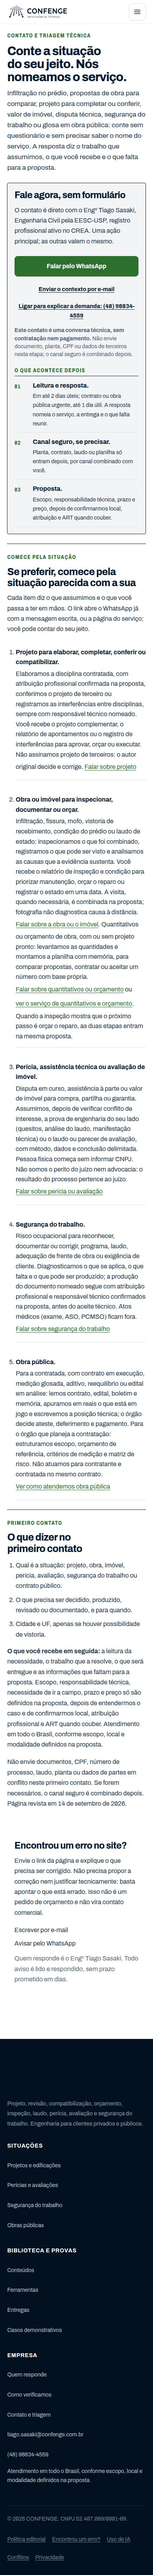
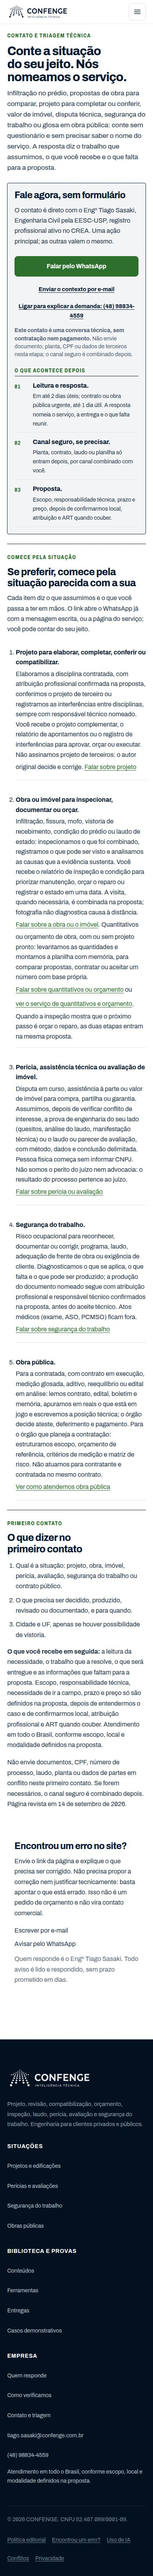
chore(design): estimativas de content-visibility da home medidas no piloto por faixa; capturas do piloto e do estudo B com imagens carregadas; comparativo regerado

diff --git a/assets/home-10x.css b/assets/home-10x.css
@@ -158,15 +158,15 @@ body[data-content-cluster="home"] .form-legal p:last-child{margin:0}
 .trust-proof-list p a{color:var(--ink);text-decoration:underline;text-underline-offset:3px;font-weight:600}
 @media (min-width:900px){body[data-content-cluster="home"] .contact-grid>.contact-form,body[data-content-cluster="home"] .contact-grid>form{grid-column:2;grid-row:1 / span 2}body[data-content-cluster="home"] .contact-grid>.form-nojs-note{grid-column:2}}
 
-/* ── 8. content-visibility: estimativas por faixa (nunca acima do real; medidas em 2026-09-16) ─ */
+/* ── 8. content-visibility: estimativas por faixa (nunca acima do real; medidas em 2026-09-17 no piloto, mínimo dos extremos de cada faixa) ─ */
 /* As duas seções finais ficam sempre renderizadas: são destino de âncora (#triagem-tecnica, #contato)
  * e mudam de altura depois da hidratação do formulário. */
 @supports (content-visibility:auto){
 html.js body[data-content-cluster="home"] main>#triagem-tecnica,html.js body[data-content-cluster="home"] main>#contato{content-visibility:visible}
-@media (max-width:359px){html.js body[data-content-cluster="home"] main>#situacoes{contain-intrinsic-size:auto 3400px}html.js body[data-content-cluster="home"] main>section[data-section-archetype="authority_editorial"]{contain-intrinsic-size:auto 1500px}html.js body[data-content-cluster="home"] main>#obras-publicas{contain-intrinsic-size:auto 1330px}html.js body[data-content-cluster="home"] main>#mercado-pncp{contain-intrinsic-size:auto 1460px}}
-@media (min-width:360px) and (max-width:389px){html.js body[data-content-cluster="home"] main>#situacoes{contain-intrinsic-size:auto 3060px}html.js body[data-content-cluster="home"] main>section[data-section-archetype="authority_editorial"]{contain-intrinsic-size:auto 1270px}html.js body[data-content-cluster="home"] main>#obras-publicas{contain-intrinsic-size:auto 1230px}html.js body[data-content-cluster="home"] main>#mercado-pncp{contain-intrinsic-size:auto 1300px}}
-@media (min-width:390px) and (max-width:429px){html.js body[data-content-cluster="home"] main>#situacoes{contain-intrinsic-size:auto 2890px}html.js body[data-content-cluster="home"] main>section[data-section-archetype="authority_editorial"]{contain-intrinsic-size:auto 1210px}html.js body[data-content-cluster="home"] main>#obras-publicas{contain-intrinsic-size:auto 1185px}html.js body[data-content-cluster="home"] main>#mercado-pncp{contain-intrinsic-size:auto 1260px}}
-@media (min-width:430px) and (max-width:699px){html.js body[data-content-cluster="home"] main>#situacoes{contain-intrinsic-size:auto 2430px}html.js body[data-content-cluster="home"] main>section[data-section-archetype="authority_editorial"]{contain-intrinsic-size:auto 1000px}html.js body[data-content-cluster="home"] main>#obras-publicas{contain-intrinsic-size:auto 980px}html.js body[data-content-cluster="home"] main>#mercado-pncp{contain-intrinsic-size:auto 1090px}}
-@media (min-width:700px) and (max-width:1199px){html.js body[data-content-cluster="home"] main>#situacoes{contain-intrinsic-size:auto 2130px}html.js body[data-content-cluster="home"] main>section[data-section-archetype="authority_editorial"]{contain-intrinsic-size:auto 740px}html.js body[data-content-cluster="home"] main>#obras-publicas{contain-intrinsic-size:auto 790px}html.js body[data-content-cluster="home"] main>#mercado-pncp{contain-intrinsic-size:auto 720px}}
-@media (min-width:1200px){html.js body[data-content-cluster="home"] main>#situacoes{contain-intrinsic-size:auto 2130px}html.js body[data-content-cluster="home"] main>section[data-section-archetype="authority_editorial"]{contain-intrinsic-size:auto 740px}html.js body[data-content-cluster="home"] main>#obras-publicas{contain-intrinsic-size:auto 790px}html.js body[data-content-cluster="home"] main>#mercado-pncp{contain-intrinsic-size:auto 720px}}
+@media (max-width:359px){html.js body[data-content-cluster="home"] main>#situacoes{contain-intrinsic-size:auto 3671px}html.js body[data-content-cluster="home"] main>#entregas-demonstrativas{contain-intrinsic-size:auto 3547px}html.js body[data-content-cluster="home"] main>#responsabilidade{contain-intrinsic-size:auto 2069px}html.js body[data-content-cluster="home"] main>#obras-publicas{contain-intrinsic-size:auto 3007px}}
+@media (min-width:360px) and (max-width:389px){html.js body[data-content-cluster="home"] main>#situacoes{contain-intrinsic-size:auto 3529px}html.js body[data-content-cluster="home"] main>#entregas-demonstrativas{contain-intrinsic-size:auto 3434px}html.js body[data-content-cluster="home"] main>#responsabilidade{contain-intrinsic-size:auto 2013px}html.js body[data-content-cluster="home"] main>#obras-publicas{contain-intrinsic-size:auto 2959px}}
+@media (min-width:390px) and (max-width:429px){html.js body[data-content-cluster="home"] main>#situacoes{contain-intrinsic-size:auto 3481px}html.js body[data-content-cluster="home"] main>#entregas-demonstrativas{contain-intrinsic-size:auto 3411px}html.js body[data-content-cluster="home"] main>#responsabilidade{contain-intrinsic-size:auto 2015px}html.js body[data-content-cluster="home"] main>#obras-publicas{contain-intrinsic-size:auto 2750px}}
+@media (min-width:430px) and (max-width:699px){html.js body[data-content-cluster="home"] main>#situacoes{contain-intrinsic-size:auto 3301px}html.js body[data-content-cluster="home"] main>#entregas-demonstrativas{contain-intrinsic-size:auto 3516px}html.js body[data-content-cluster="home"] main>#responsabilidade{contain-intrinsic-size:auto 2018px}html.js body[data-content-cluster="home"] main>#obras-publicas{contain-intrinsic-size:auto 2480px}}
+@media (min-width:700px) and (max-width:1199px){html.js body[data-content-cluster="home"] main>#situacoes{contain-intrinsic-size:auto 1880px}html.js body[data-content-cluster="home"] main>#entregas-demonstrativas{contain-intrinsic-size:auto 1818px}html.js body[data-content-cluster="home"] main>#responsabilidade{contain-intrinsic-size:auto 1002px}html.js body[data-content-cluster="home"] main>#obras-publicas{contain-intrinsic-size:auto 1916px}}
+@media (min-width:1200px){html.js body[data-content-cluster="home"] main>#situacoes{contain-intrinsic-size:auto 1880px}html.js body[data-content-cluster="home"] main>#entregas-demonstrativas{contain-intrinsic-size:auto 1818px}html.js body[data-content-cluster="home"] main>#responsabilidade{contain-intrinsic-size:auto 945px}html.js body[data-content-cluster="home"] main>#obras-publicas{contain-intrinsic-size:auto 1917px}}
 }
